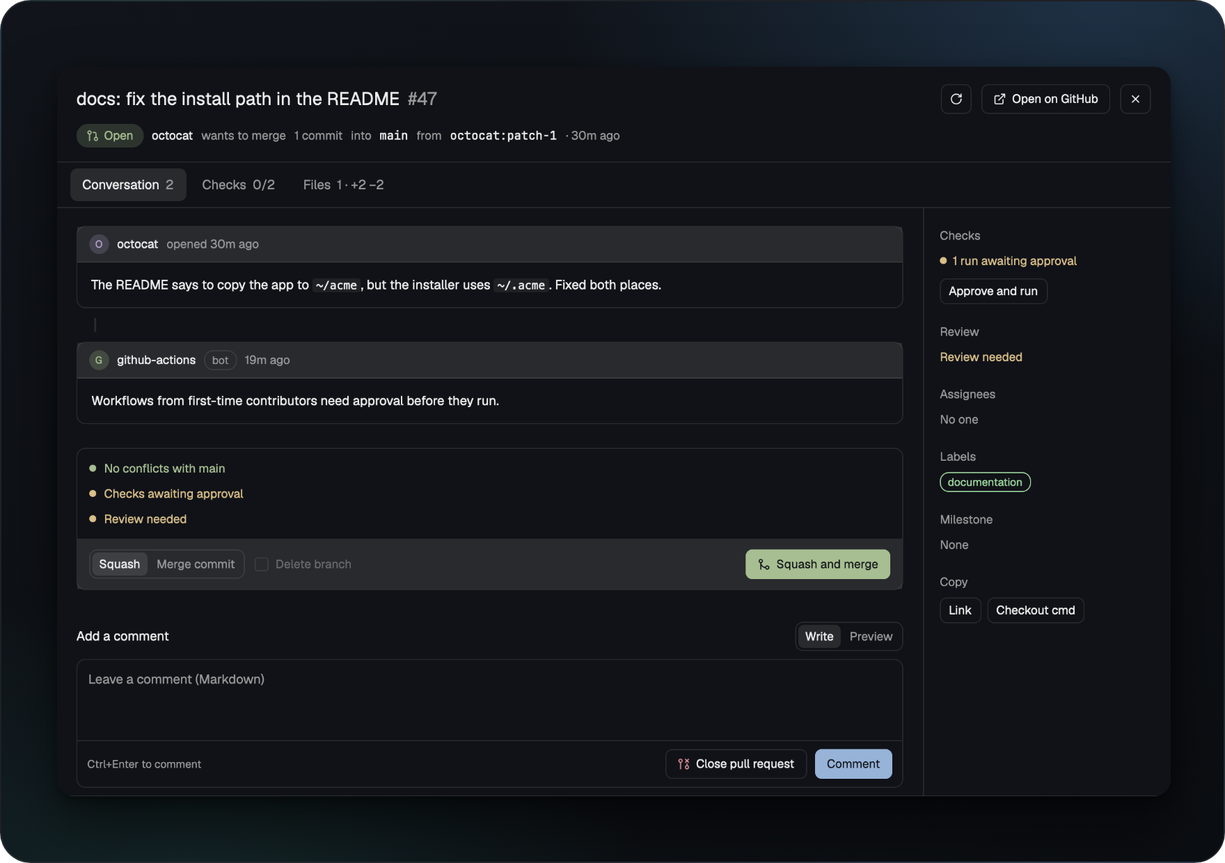
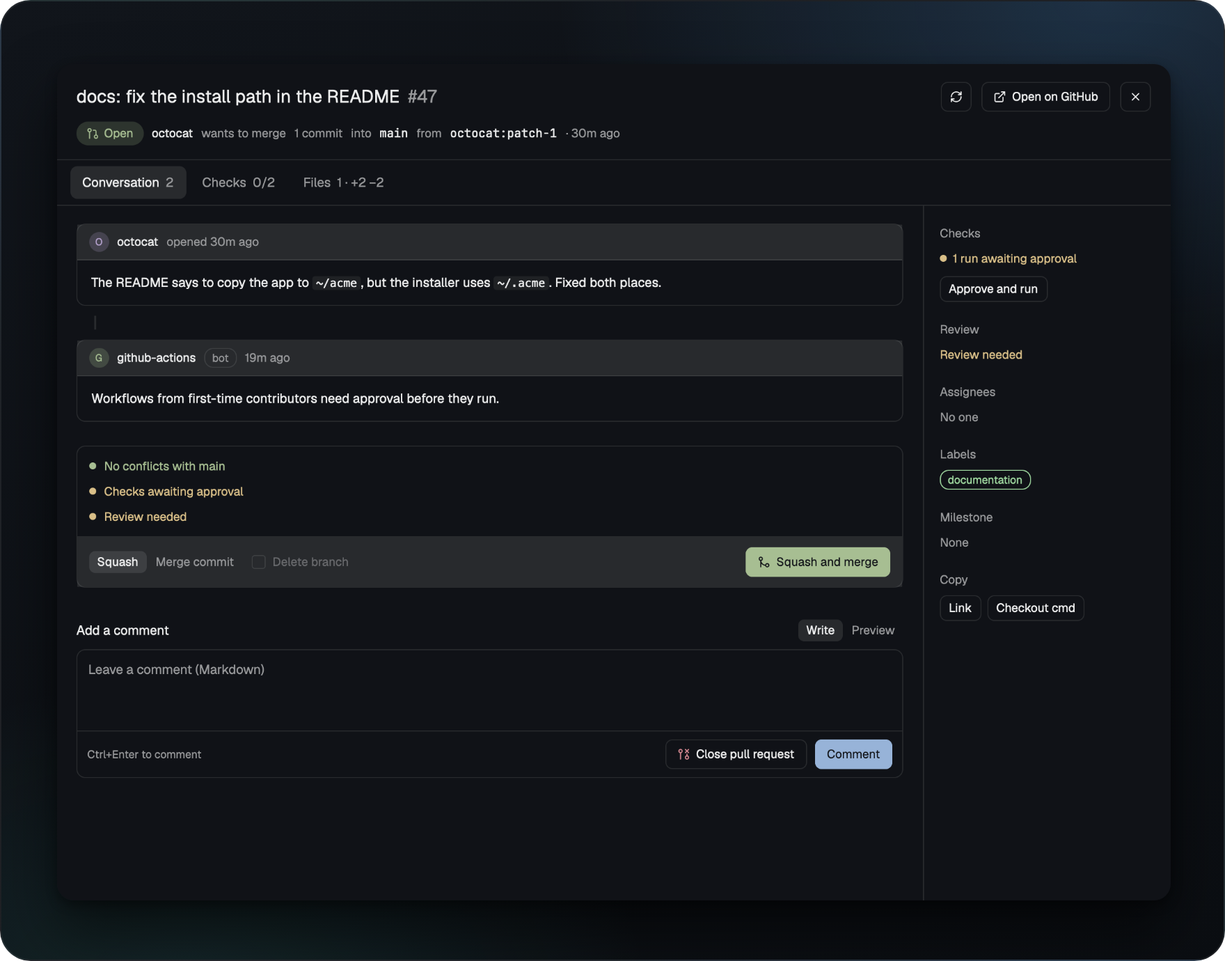
docs: README, guide, recipe and screenshots for 1.0.0
- README: settings and updates, header, recipe link
- docs/GUIDE.md: Settings with Save and Cancel, Updates with the gold
  signal and the agent line
- RECIPE.md: the mod as a brief to build it again
- screenshots made again in the current design, with a settings card;
  the demo window is 1280 x 940 points so the dialog fits whole, and
  the hero shows the whole panel so no row is cut
- demo instance: the update check counts as done today; DEMO_UPDATE=1
  makes a release available (for testing the gold button)

diff --git a/scripts/screenshots/cards/hero.html b/scripts/screenshots/cards/hero.html
@@ -3,9 +3,9 @@
 <link rel="stylesheet" href="card.css">
 <style>
 /* layout: the README hero. Left: name, tagline and the key features as text (keep them in line with the README intro).
-   Right: the panel with the Issues tab grouped by milestone. */
-html, body { width: 1022px; height: 572px; }
-.copy { position: absolute; left: 44px; top: 56px; width: 420px; color: #e6eaf0; font-family: -apple-system, "SF Pro Text", "Inter", system-ui, sans-serif; }
+   Right: the whole panel with the Issues tab grouped by milestone (whole, so no row is cut). */
+html, body { width: 1022px; height: 916px; }
+.copy { position: absolute; left: 44px; top: 205px; width: 420px; color: #e6eaf0; font-family: -apple-system, "SF Pro Text", "Inter", system-ui, sans-serif; }
 .badge { display: inline-block; font-size: 13px; color: #aab4c0; border: 1px solid rgba(255,255,255,0.14); border-radius: 999px; padding: 4px 12px; }
 h1 { font-size: 40px; line-height: 1.1; font-weight: 700; margin: 22px 0 8px; letter-spacing: -0.01em; }
 .tag { font-size: 17px; line-height: 1.45; color: #9aa5b2; margin-bottom: 26px; }
@@ -14,7 +14,7 @@ li { font-size: 16px; line-height: 1.35; display: flex; align-items: center; gap
 /* the mod's own Lucide icons (mods/ghchecker/icons/), inline so headless Edge draws them */
 li svg { flex: none; width: 18px; height: 18px; padding: 6px; box-sizing: content-box; border-radius: 8px; background: rgba(90, 169, 245, 0.12); border: 1px solid rgba(90, 169, 245, 0.22);
   fill: none; stroke: #7cc0ff; stroke-width: 2; stroke-linecap: round; stroke-linejoin: round; }
-.panel { left: 520px; top: 30px; width: 446px; height: 512px; }
+.panel { left: 532px; top: 32px; width: 444px; }
 .shot.cut.panel { border-color: #363a3f; }
 </style></head>
 <body><div class="frame">
@@ -30,5 +30,5 @@ li svg { flex: none; width: 18px; height: 18px; padding: 6px; box-sizing: conten
       <li><svg viewBox="0 0 24 24" aria-hidden="true"><path d="M11.525 2.295a.53.53 0 0 1 .95 0l2.31 4.679a2.123 2.123 0 0 0 1.595 1.16l5.166.756a.53.53 0 0 1 .294.904l-3.736 3.638a2.123 2.123 0 0 0-.611 1.878l.882 5.14a.53.53 0 0 1-.771.56l-4.618-2.428a2.122 2.122 0 0 0-1.973 0L6.396 21.01a.53.53 0 0 1-.77-.56l.881-5.139a2.122 2.122 0 0 0-.611-1.879L2.16 9.795a.53.53 0 0 1 .294-.906l5.165-.755a2.122 2.122 0 0 0 1.597-1.16z"/></svg>Stars, forks and the latest release at a glance</li>
     </ul>
   </div>
-  <div class="shot cut panel"><img src="hero-panel.png" alt=""></div>
+  <div class="shot panel"><img src="hero-panel.png" alt=""></div>
 </div></body></html>

diff --git a/scripts/screenshots/cards/run-overlay.html b/scripts/screenshots/cards/run-overlay.html
@@ -3,8 +3,8 @@
 <link rel="stylesheet" href="card.css">
 <style>
 /* layout: the overlay (a failed run with its jobs, steps and log), scaled to the card */
-html, body { width: 880px; height: 620px; }
-.window { left: 40px; top: 48px; width: 800px; border-radius: 12px; }
+html, body { width: 880px; height: 690px; }
+.window { left: 40px; top: 45px; width: 800px; border-radius: 12px; }
 </style></head>
 <body><div class="frame">
   <div class="shot window"><img src="run-overlay-window.png" alt=""></div>

diff --git a/scripts/screenshots/cards/pr-overlay.html b/scripts/screenshots/cards/pr-overlay.html
@@ -3,8 +3,8 @@
 <link rel="stylesheet" href="card.css">
 <style>
 /* layout: the overlay (a pull request with its merge box), scaled to the card */
-html, body { width: 880px; height: 620px; }
-.window { left: 40px; top: 47px; width: 800px; border-radius: 12px; }
+html, body { width: 880px; height: 690px; }
+.window { left: 40px; top: 45px; width: 800px; border-radius: 12px; }
 </style></head>
 <body><div class="frame">
   <div class="shot window"><img src="pr-overlay-window.png" alt=""></div>

diff --git a/scripts/screenshots/cards/settings.html b/scripts/screenshots/cards/settings.html
@@ -1,0 +1,11 @@
+<!DOCTYPE html>
+<html lang="en"><head><meta charset="utf-8"><title>Settings card</title>
+<link rel="stylesheet" href="card.css">
+<style>
+/* layout: the Settings dialog, centered */
+html, body { width: 880px; height: 845px; }
+.window { left: 160px; top: 41px; width: 560px; border-radius: 12px; }
+</style></head>
+<body><div class="frame">
+  <div class="shot window"><img src="settings-window.png" alt=""></div>
+</div></body></html>

diff --git a/scripts/screenshots/cards/actions.html b/scripts/screenshots/cards/actions.html
@@ -3,7 +3,7 @@
 <link rel="stylesheet" href="card.css">
 <style>
 /* layout: the whole panel (the Actions tab with a running and a failed run), centered */
-html, body { width: 880px; height: 800px; }
+html, body { width: 880px; height: 920px; }
 .panel { left: 218px; top: 34px; width: 444px; }
 </style></head>
 <body><div class="frame">

diff --git a/scripts/screenshots/cards/issues.html b/scripts/screenshots/cards/issues.html
@@ -3,7 +3,7 @@
 <link rel="stylesheet" href="card.css">
 <style>
 /* layout: the whole panel (the Issues tab grouped by milestone), centered */
-html, body { width: 880px; height: 800px; }
+html, body { width: 880px; height: 920px; }
 .panel { left: 218px; top: 34px; width: 444px; }
 </style></head>
 <body><div class="frame">

diff --git a/scripts/screenshots/cards/prs.html b/scripts/screenshots/cards/prs.html
@@ -3,7 +3,7 @@
 <link rel="stylesheet" href="card.css">
 <style>
 /* layout: the whole panel (the PRs tab with checks and reviews), centered */
-html, body { width: 880px; height: 800px; }
+html, body { width: 880px; height: 920px; }
 .panel { left: 218px; top: 34px; width: 444px; }
 </style></head>
 <body><div class="frame">

diff --git a/RECIPE.md b/RECIPE.md
@@ -1,0 +1,71 @@
+# GitHub Checker
+
+A slim GitHub panel in the right panel column, opened from a `GitHub` pill at the right end of the tab bar. It follows the focused tab: for the GitHub repository of the focused terminal's folder (on this Mac or on an SSH machine) it shows the open issues, pull requests and Actions runs in three tabs, from a cache at once and synced in the background. A click opens a large overlay: an issue or pull request with its conversation (comment, close, reopen; for a pull request also its checks, its files, **Approve and run** and a merge box), or a run with its jobs, steps and log (re-run, cancel). Everything goes through the GitHub CLI `gh`.
+
+![GitHub Checker](preview.png)
+
+## What you see
+
+All colors are `theme()` tokens (states use `ansi1` red, `ansi2` green, `ansi3` yellow, `ansi4` blue, `ansi5` magenta, `muted`, `dim`), so the mod follows the person's theme. Label chips keep their GitHub color unless `labels.color` is `mono`.
+
+**Tab bar pill** (block `ghchecker-button`, 92px wide, at the right of the 42px row `tab-bar` beside the `tabs` block): fills the block, `bg(t.chrome)`, `border_b(1)`, content right-aligned with `pr(10)`; the pill 26px high, `px(8)`, gap 5, radius 6, text 12, a 14px `github.svg` and `GitHub`; `bg(t.selected)` and `t.foreground` while the panel shows it, else `t.muted`; hover `bg(t.hover)`.
+
+**Panel** (block `ghchecker` in `panel` > `panel-body`; the root `rounded(10)`, `border_1()`, `bg(t.background)`, text 13), top to bottom:
+
+1. **Header**, 42px, `px(14)`, gap 8, `border_b(1)`, as Filer Pro's: `github.svg` 14px and `GitHub` semibold; right-aligned the repository `owner/name` in text 12 `t.dim` (truncated; a link to `https://github.com/<owner>/<name>`, underlined on hover, tooltip `Open on GitHub`), or the folder (`~/…`) when it has no GitHub remote. Then 24px icon buttons, 14px glyph, radius 6, no border, hover `bg(t.hover)`, `bg(t.selected)` and `t.foreground` while on: **Refresh** (Filer Pro's `refresh.svg`, turns while a sync runs; `t.ansi1` with a 5px red dot when the last sync failed, the reason and the last update in its tooltip), **Search and sort** (`filter.svg`; a grey dot when a hidden search or sort is set; on Actions it changes nothing), **Settings** (`settings.svg`, always; while a newer release is out gold `#f0c85a` with a gold background at 10 %, a 6px gold dot top right and a gold layer that breathes with `loop("opacity", { from: 0.15, to: 1, period: 2400 })`, tooltip `<version> available`). No status text.
+2. **Tabs**, a 32px row, `px(8)`, gap 2: `Issues`, `PRs`, `Actions`, each a third (`flex_1`), centered, 24px high, radius 6, text 12, a 12px icon; the shown one `bg(t.selected)` (the Issues/PRs icon in green). Actions carries a 6px dot: yellow while a run is queued or in progress, red when the newest finished run on the default branch failed.
+3. **Filter bar**, `px(8)` `py(6)`, gap 6. While Search and sort is on, first a row with a 24px text field (`Filter issues` / `Filter pull requests`, border `t.border`) and the sort menu (`Newest`, `Oldest`, `Updated`; a popup of this mod). Then always: Issues `Open | Closed`, `Milestones` (a toggle centered between the groups: group by milestone), `All | Mine | External`; PRs `Open | Merged | Closed` and `All | Mine | Review | External`; Actions the workflow menu (`All workflows`) and `All | Failed | This branch`. Segmented items 22px, `px(8)`, radius 6, text 12, the chosen one `bg(t.selected)` `t.foreground`, no border.
+4. **List**, a virtual list (`v_virtual_list` with `Scrollbar.vertical`): rows of fixed height, 46px with two lines (title truncated; then `#46 · 14m ago by octocat` and labels, or for a PR `head → base` in mono), 28px with one line in compact mode (`#46` in a 42px column and the title). Right column: comment count (issues), checks dot and word (`2 failed`, `Running`, `Waiting`, `Passed`, `No checks`) and the review (`Approved`, `Changes requested`, `Review needed`, `No review`) for PRs, state word and `3m 40s · 5h` for runs. With Milestones on, a heading per milestone (`v1.0  due Dec 12 … 5 / 8 done` and a 4px progress bar in green), `No milestone` last. Empty states in text 12 `t.dim`.
+5. **Status bar**, 30px, `border_t(1)`, `bg(t.chrome)`, text 11.5 `t.muted`, icons 13px: stars, forks, watchers, open issues, open PRs (the last two jump to their tab with Open), right-aligned the latest release tag; an entry without a value is left out.
+
+Without a GitHub repository: the header with the folder, then `No repository in this folder` and `This tab's terminal is in a folder without a GitHub remote. Switch to a tab inside a repository.`; no status bar.
+
+**Overlays** (copies of this mod with props):
+
+- **Issue / pull request** (`{ item }`, dialog 0.88 × 0.9): a top with the title, `#n`, Refresh, `Open on GitHub`, Close; a state pill (`Open` green, `Draft` grey, `Merged` magenta, `Closed` red/magenta) and the byline (`octocat wants to merge 1 commit into main from octocat:patch-1 · 20m ago`). PRs have sections `Conversation 2 | Checks 0/2 | Files 1 · +2 −2`. The conversation: cards for the opening post, comments and reviews (avatar or initial, `bot`, `Owner`, `Author` badges, Markdown with pictures from GitHub hosts only), events as one line each with an icon, a rail between them; for an open PR the merge box; then `Add a comment` (Write/Preview, `Close issue` / `Close pull request`, not planned, `Reopen`, `Comment`, Ctrl+Enter). A 250px right column: Checks (or `1 run awaiting approval` with **Approve and run**), Review, Assignees, Labels, Milestone, Closes/Development, Copy (`Link`, `Checkout cmd` / `Reference`).
+- **Merge box** (open PR): lines for conflicts (`No conflicts with main`), checks and review; a bar with only the allowed methods (`Squash | Merge commit | Rebase`), `Delete branch` (preset from the repository, impossible for a fork) and the merge button in green; locked for drafts, conflicts and failed checks with the reason; the first click asks (`Squash and merge #47 into main?`, `Cancel`, `Confirm merge`).
+- **Run** (`{ run }`, dialog 0.86 × 0.88): title, `CI #127`, `Re-run failed jobs` (accent) and `Re-run all` when finished, `Cancel run` (then `Confirm cancel` / `Keep running`) while running, `Open on GitHub`, Close; pill `Failed · 3m 40s`, event, branch, short sha, age. A 260px job list on the left (the failed, else running, job picked first), the job's steps on the right, then `Failed step log (trimmed)` with `Copy log`, or `Last log lines`, or `The log shows up here when this job has finished.`.
+- **Settings** (`{ settings: true }`, modal dialog 620 × 0.9): Filer Pro's settings layout. `GitHub Checker Settings` (17, medium) with an `Esc` badge; sections in capitals 12.5 `t.muted`: UPDATES (while a newer release is out first a gold box, border and text `#f0c85a`: `GitHub Checker 1.1.0 is available`, `Release notes`, `You have 1.0.0. To update, ask your agent in Herdr:`, the line `Update this mod: https://github.com/Srv-02/herdr-ghchecker/tree/main` in mono with a gold `Copy`; then the row `GitHub Checker 1.0.0` with `You’re up to date. Last checked today at 09:41.` and `Check now`; the switch `Check for updates automatically`), LIST (`Compact rows`, `Show labels`, `Label colors` Color | Mono, dimmed while labels are hidden), EXTERNAL FILTER (`Count bots as external`, `Never external` with a 200px field `octocat, hubot`); footer `GitHub Checker is free and open source.`, `GitHub`, `Buy me a coffee`; at the bottom `Cancel` and `Save` (`t.solid`). Switches 42 × 24, knob 18, `t.accent` when on. Save writes the changed keys only.
+- **Menus** (`{ menu }`, popups): sort and workflow, 220px wide, 28px rows with a check at the current one; the pick goes back through shared `ghchecker.pick`.
+
+## How it behaves
+
+- **Location** (`lib/location.js`): the focused pane's `cwd` and branch, else the space folder; a terminal block `machine/tN` names its machine; a focused mod (pane or block) keeps the last location. `git remote -v` runs in that folder on its machine (`exec(..., { on })`); `origin` on github.com wins, else the first github.com remote. A folder without one shows the empty state, never the last repository; a miss is asked again after 30 s. A 3 s timer notices a `cd`.
+- **Sync** (`store.js`, `gh.js`): per repository, parts `issues:open`, `prs:open`, `runs`, `milestones`, `info` (default branch, merge methods) and every 10 minutes `stats`; closed or merged lists only while shown. Memory and `appHome()/data/ghchecker/repo-<owner>__<name>.json` (version 1); a switch shows that at once and syncs when older than 15 s. While the panel is shown and the window visible: a full sync every 60 s, the runs every 12 s while one runs. A failed part keeps its last value.
+- **Filters** (`lib/filters.js`): text over number, title, author, labels; Mine = opened by or assigned to you (PRs: opened by you); Review = review requested from you; External = someone else and not a bot (`external.includeBots`, `external.ignoreAuthors`); This branch = the focused terminal's branch.
+- **Writes**, only on a click: `gh issue|pr comment|close|reopen`, `gh pr merge <n> -R <repo> --squash|--merge|--rebase [--delete-branch]`, `gh run rerun [--failed]`, `gh run cancel`, `gh api -X POST repos/<repo>/actions/runs/<id>/approve`. Then shared `ghchecker.changed` makes the panel sync.
+- **Approve and run** (`lib/approve.js`): the waiting runs of the head commit (`status=action_required`); before the button works, the runners of the repository and its organisation are read; any self-hosted runner locks it; without admin rights it works and says the runners were not checked.
+- **Pictures** (`lib/images.js`, `media.js`): only `https` from `github.com` (`/user-attachments/…`, `/<login>.png`) and `*.githubusercontent.com`, checked with `URL`; curl with `--proto =https --proto-redir =https --max-redirs 5 --max-filesize 20M`; the gh token only for github.com, on stdin. Anything else: `Image from <host> · open it`.
+- **Settings** (`lib/settings.js`): one schema (key, type, default, label, help) for `update_check`, `compact_rows`, `labels.show`, `labels.color`, `external.includeBots`, `external.ignoreAuthors`; file `appHome()/ghchecker.json`, nested or dotted keys, a wrong value means its default; saved with `writeTextFile` against the text read (never over a broken file), then shared `ghchecker.config`.
+- **Update check** (`lib/update.js`, `lib/lease.js`, from Filer Pro): one copy holds shared `ghchecker.lease` (renewed every minute, taken after 3 minutes) and at most hourly runs a pass; a request to `https://api.github.com/repos/Srv-02/herdr-ghchecker/releases/latest` only when the last is 24 h old, the installed version (from `mods/ghchecker/mod.json`) changed or the clock moved back. Result in shared `ghchecker.update` `{ at, local, latest }`.
+- **Commands** (`nextCommand`, for keys.json `ghchecker:<command>`): `issues`, `prs`, `actions`, `failed`, `group`, `compact`, `filter`, `settings`, `open` (the first row), `refresh`.
+
+## Built from
+
+Folder `mods/ghchecker/`, `mod.json` `{ "place": "none", "version": "1.0.0" }`.
+
+- **One `View`, roles by props**: none: the panel; `{ button: true }`: the pill (adds `ghchecker` to shared `workspace.panels`); `{ item }`, `{ run }`, `{ settings: true }`, `{ menu }`: the overlays.
+- **Layout blocks**: in a row `tab-bar` (42px) `{ "id": "ghchecker-button", "type": "block", "content": { "mod": "ghchecker", "props": { "button": true } }, "size": { "px": 92 }, "window_drag": true }`; in `panel` > `panel-body` `{ "id": "ghchecker", "type": "block", "content": { "mod": "ghchecker" }, "size": { "weight": 1 }, "min": 120 }`. The pill finds the panel by its mod.
+- **Files**: `main.js` (panel, pill, menus), `viewer.js`, `run.js`, `settings.js`, `gh.js`, `store.js`, `media.js`, `ui.js`; `lib/` pure logic (`status`, `time`, `milestones`, `merge`, `approve`, `filters`, `location`, `markdown`, `images`, `labels`, `stats`, `settings`, `update`, `lease`, `log`, `timeline`), tested with `node --test`.
+- **`herdr` functions**: `exec` (with `on`), `spaces`, `panes`, `focused`, `layout`, `window`, `theme`, `home`, `appHome`, `readTextFile`, `writeTextFile`, `shared`, `setShared`, `props`, `openOverlay`, `closeOverlay`, `notify`, `run`, `nextCommand`, `checking`.
+- **Programs**: `gh`, `git`, `curl`, `file`, `open`; `globalThis.fetch` for the update check.
+- **Art**: Lucide icons in `icons/` (ISC, `icons/LICENSE`).
+
+## Watch out
+
+- The folder name is load-bearing: icons are `mods/ghchecker/icons/<name>.svg`, the version is read from `mods/ghchecker/mod.json`, overlays open `mod: "ghchecker"`, shared keys are `ghchecker.*`.
+- A virtual list's rows take no handlers: clicks come by key through `on_item_click`; hover is a style.
+- Herdr draws nothing new in a minimized or fully covered window; the timers skip their work then.
+- `exec` stops after 30 s by default; gh calls get 60 s.
+- Never interpolate into shell text: repository names pass `slugOf` (`[\w.-]` only) before they reach `gh` arguments or API paths; URLs go to curl as `"$2"`.
+
+## Done when
+
+- `herdr-app check ~/.config/herdr-app/mods/ghchecker` passes and `herdr-app status` shows `"errors": []`.
+- The `GitHub` pill opens the panel; a tab inside a clone shows its issues at once; a tab in `~` shows `No repository in this folder`.
+- Milestones groups the issues with `5 / 8 done` headings; External hides your own and bots' items.
+- A PR from a fork shows `octocat:patch-1 → main`; its overlay offers only the repository's merge methods and asks before merging.
+- A running run makes the Actions dot yellow and the list refresh every 12 s; its overlay offers `Cancel run`.
+- An issue with a picture from another host shows `Image from <host> · open it` and downloads nothing.
+- The gear opens Settings; Compact rows and Save switch the list at once and write `compact_rows` to `ghchecker.json`.
+- With shared `ghchecker.update` naming a newer release, the gear is gold and shines; the dialog shows the gold box.

diff --git a/scripts/screenshots/README.md b/scripts/screenshots/README.md
@@ -8,7 +8,7 @@ The README images in `screenshots/` and `preview.png` are cards: crops of a runn
 scripts/screenshots/shoot.sh
 ```
 
-`scripts/screenshots/shoot.sh issues prs` shoots only the named cards (issues, prs, actions, pr-overlay, run-overlay, hero); `hero` renders `preview.png` at the top of the README, with its feature list as text on the card (`cards/hero.html`, keep it in line with the README intro); `CROP_ONLY=1` re-crops and renders from the raw shots in `tmp/shots-raw` without launching anything.
+`scripts/screenshots/shoot.sh issues prs` shoots only the named cards (issues, prs, actions, pr-overlay, run-overlay, settings, hero); `hero` renders `preview.png` at the top of the README, with its feature list as text on the card (`cards/hero.html`, keep it in line with the README intro); `CROP_ONLY=1` re-crops and renders from the raw shots in `tmp/shots-raw` without launching anything.
 
 It prepares a separate Herdr instance, launches it once, sets every state through the mod's own commands (`herdr-app do ghchecker.issues|prs|actions|failed|group|open`, the ones `keys.json` can bind), takes the shots, quits the instance, crops them and renders all cards. Needs macOS with a Retina display, Herdr.app, Microsoft Edge (headless, no window), `node`, `git` and `sips`. Look at every image before you commit it: no user name, no real path, no real host, no real repository.
 
@@ -16,8 +16,8 @@ What it never does: touch your own Herdr or its installed mod, call the real `gh
 
 ## Files
 
-- `shoot.sh`: the whole run (prepare, launch, drive, shoot, quit, clean, crop, render). The crop boxes are raw pixels of the default window (1280 x 820 points at 2x, panel 446 points wide, app zoom 1).
-- `demo-instance.sh`: `prepare | start | space | quit | clean` for the separate instance. Its `HERDR_APP_HOME` is `tmp/shots-home` and its core session `ghcshots`. `prepare` creates the demo project `tmp/acme-app` (a git repository with the remote `github.com/acme/acme-app`, on the branch `fix/empty-cart`), copies the mod of this checkout, patches that copy with `demo-hook.mjs`, and writes a layout with the panel shown and the GitHub button in the tab bar. It also marks the welcome screen and the what's-new window as done, so no popup needs a click.
+- `shoot.sh`: the whole run (prepare, launch, drive, shoot, quit, clean, crop, render). The crop boxes are raw pixels of the demo window (1280 x 940 points at 2x, panel 446 points wide, app zoom 1); the window is that tall so the Settings dialog fits whole.
+- `demo-instance.sh`: `prepare | start | space | quit | clean` for the separate instance. Its `HERDR_APP_HOME` is `tmp/shots-home` and its core session `ghcshots`. `prepare` creates the demo project `tmp/acme-app` (a git repository with the remote `github.com/acme/acme-app`, on the branch `fix/empty-cart`), copies the mod of this checkout, patches that copy with `demo-hook.mjs`, and writes a layout with the panel shown and the GitHub button in the tab bar. It also marks the welcome screen and the what's-new window as done, so no popup needs a click, and the update check as done today (up to date; `DEMO_UPDATE=1` makes a release 1.1.0 available, for the gold Settings button, never for the README).
 - `demo-hook.mjs`: patches the instance's copy of the mod (never `mods/ghchecker`, never your installed mod): `gh.js` calls `demo/gh` instead of `gh`, and `media.js` draws initials instead of downloading avatars. It stops loudly when an anchor in the mod has moved; `test/screenshot-hook.test.js` applies it to the current mod on every `npm test`, and checks that the shipped mod has no trace of it.
 - `demo/gh`, `demo/gh.mjs`: the fake GitHub CLI. It answers every call the panel makes with made-up issues (with milestones), pull requests (from a fork, a draft, failed checks, a bot) and runs (one in progress, one failed), with times relative to now. Writes such as merge, re-run or cancel print `ok` and change nothing. `GHC_DEMO_MANY=1` in the instance's environment adds 200 issues with long titles, to try scrolling.
 - `render.sh`: renders a card into a PNG with headless Microsoft Edge (`EDGE=/path/to/browser` picks another Chromium-based browser).

diff --git a/docs/GUIDE.md b/docs/GUIDE.md
@@ -137,13 +137,13 @@ The panel takes these commands, for `keys.json` (`"alt-g i": "ghchecker:issues"`
 
 ## Settings
 
-The gear at the right of the header opens the Settings dialog. Every change is saved at once to `ghchecker.json` in the Herdr app folder (`~/.config/herdr-app/ghchecker.json`) and the panel uses it right away. The file can also be edited by hand: a missing file means the defaults; a broken file, or a value of the wrong type, means the default for that value (the dialog then refuses to save and says so).
+The gear at the right of the header opens the Settings dialog; **Save** writes the changed values to `ghchecker.json` in the Herdr app folder (`~/.config/herdr-app/ghchecker.json`) and the panel uses them right away, **Cancel** or Esc leaves everything as it was. The file can also be edited by hand: a missing file means the defaults; a broken file, or a value of the wrong type, means the default for that value (the dialog then refuses to save and says so).
 
 | Key | Type | Default | What it does |
 |---|---|---|---|
-| `update_check` | true / false | `true` | Once a day, asks GitHub for the latest release of GitHub Checker. |
+| `update_check` | true / false | `true` | Once a day, asks GitHub whether a new version exists. Nothing about you or your repositories is sent, but GitHub sees your IP address. |
 | `compact_rows` | true / false | `false` | One line per issue, pull request or run: the number and the title. |
-| `labels.show` | true / false | `true` | Labels in the lists and in the issue and pull request view. |
+| `labels.show` | true / false | `true` | Labels in the lists and in the overlay; the filter still finds them when they are hidden. |
 | `labels.color` | `"color"` / `"mono"` | `"color"` | Each label in its GitHub color, or all in one quiet color of the theme. |
 | `external.includeBots` | true / false | `false` | The External filter also lists items opened by bots (github-actions, dependabot, any `[bot]` account). |
 | `external.ignoreAuthors` | list of logins | `[]` | Logins the External filter never lists, e.g. teammates. |
@@ -161,10 +161,10 @@ A dotted key (`"external.includeBots": true`) works too. All settings are define
 ## Updates
 
 - Once a day one panel (the one holding a lease in shared `ghchecker.lease`) asks `https://api.github.com/repos/Srv-02/herdr-ghchecker/releases/latest`, without a token and without anything about you. The answer is kept in shared `ghchecker.update`; `update_check` off sends nothing.
-- A newer release colors the gear blue, with `<version> available` in its tooltip. The dialog shows the version, a link to the release notes and what to ask your agent:
+- A newer release turns the gear gold, with a gold dot and a slow shine, and `<version> available` in its tooltip. The dialog then opens with a gold box: `GitHub Checker <version> is available`, a link to the release notes, and the line to give your agent in Herdr, with **Copy**:
 
   ```text
-  Read ~/.config/herdr-app/AGENTS.md, then add this mod: https://github.com/Srv-02/herdr-ghchecker/tree/main
+  Update this mod: https://github.com/Srv-02/herdr-ghchecker/tree/main
   ```
 
 - **Check now** in the dialog asks at once, also with `update_check` off.

diff --git a/README.md b/README.md
@@ -9,7 +9,7 @@
 - **Pull requests:** state, branch, checks and review at a glance, and a merge box that offers only what the repository allows.
 - **Actions:** runs with status, workflow, trigger, branch and time; jobs, steps and the failure log; re-run or cancel.
 - **At a glance:** stars, forks, watchers, open issues and pull requests, and the latest release in the status bar.
-- **Compact:** one line per row at the press of a button, and smooth scrolling through hundreds of issues.
+- **Compact:** one line per row if you like, and smooth scrolling through hundreds of issues.
 - **Quiet:** syncs only while the panel is shown, every 60 s, every 12 s while a run is in progress.
 
 <br>
@@ -29,6 +29,7 @@ Read ~/.config/herdr-app/AGENTS.md, then add this mod: https://github.com/Srv-02
 Then click `GitHub` in the tab bar.
 
 - **Needs** Herdr on macOS and the [GitHub CLI](https://cli.github.com), signed in (`gh auth login`).
+- **Update:** the gear turns gold when a new release is out; ask your agent the same way.
 - **By hand, removing, keys:** see the [guide](docs/GUIDE.md#install).
 
 ## Features
@@ -66,15 +67,23 @@ Then click `GitHub` in the tab bar.
 
 ![A failed run with its jobs, steps and log](screenshots/run-overlay.png)
 
+### Settings
+
+- **The gear** opens the settings: compact rows, labels shown or hidden, in color or mono, and who counts as external.
+- **Updates:** once a day the panel asks GitHub for a new release. The gear turns gold when one is out, and the dialog tells you what to ask your agent.
+
+![The Settings dialog](screenshots/settings.png)
+
 ### And
 
-- **The repository name** in the header opens it on GitHub.
+- **The header:** the repository name opens it on GitHub; refresh turns while it syncs and turns red when GitHub can't be reached; the funnel shows search and sort.
 - **Remote terminals:** a tab on an SSH machine shows the repository of its folder there.
 - **No repository here:** a tab outside a GitHub repository shows an empty panel, never the last repository.
 
 ## Documentation
 
 - **[Guide](docs/GUIDE.md):** every feature, setting and key in detail, and what it runs.
+- **[RECIPE.md](RECIPE.md):** the mod as a brief to build it from scratch.
 - **[Development](docs/GUIDE.md#development):** tests, lint and screenshots.
 
 ## Credits
